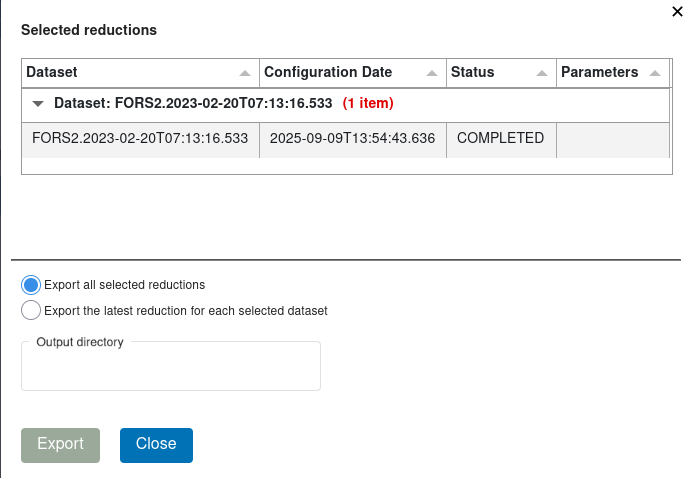
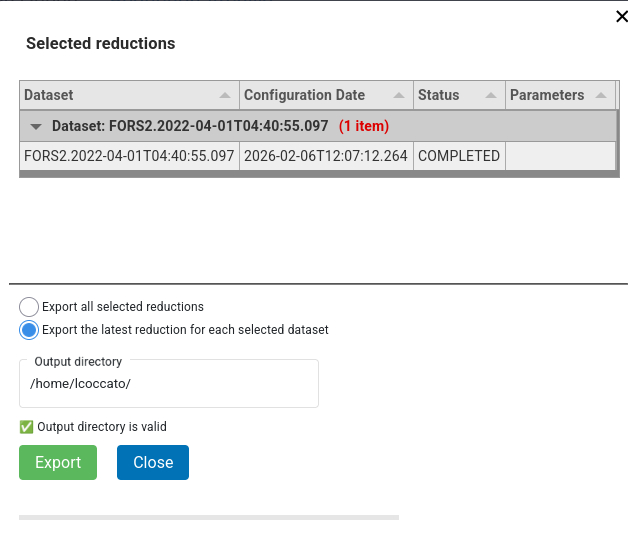
Export

diff --git a/source/quick/reduction.md b/source/quick/reduction.md
@@ -17,5 +17,39 @@ d. Choose a pipeline workflow that matches the data to be reduced. The workflows
 
 ```{include} ../common/reducing_demo_2.md
 ```
+
+## 3. Save the final data (Optional).
+All the products (final and intermediate) of all reduced configuration for all datasets are saved into
+the EDPS_data directory. In addition, EDPS offers the possibility to "archive" a desired reduction (e.g., the one
+that gives the best results) by "exporting" only the final reduction products into another location.
+
+Select the desired reduced configurations and press the "Archive button". This configuration disappears from the
+Reduction Queue and appear in the tab "Reduction Archive".
+
+The content of the "Reduction Archive", e.g. the list of archived reductions, can be inspected by pressing the
+**Reduction Archive" tab.
+
+   ````{figure} figures/archive-dataset.jpg
+   :alt: archive
+   :name: archive
+   ````  
+
+Each configuration and its jobs can be inspected, unarchived and eventually deleted.
+In order to copy the final products into a desired location, press the Export button. A window will appear
+allowing 
+ - to select all or just the last configuration for the selected datasets  
+ - to specify a directory where to save the files. A check is done 
+
+Press **Export** to save the files. 
+The types of files to copy depend on each workflow. Typically, only most important files of the 
+scientific tasks are saved. Other files can be found in the EDPS_data directory.
+The operation can take several minutes, depending on the sizes of the files.
+The default structure is `<dataset_name>/<reduction_time_stamp>/<category>.fits`.
+
+   ````{figure} figures/export2.jpg
+   :alt: archive2
+   :name: archive2
+   ````  
+
 ---
 Go to EDPS quick-start guide [index](../quick/index)

diff --git a/source/edpsgui/gui.md b/source/edpsgui/gui.md
@@ -132,6 +132,10 @@ scientific tasks are saved. Other files can be found in the EDPS_data directory.
 The operation can take several minutes, depending on the sizes of the files.
 The default structure is `<dataset_name>/<reduction_time_stamp>/<category>.fits`.
 
+   ````{figure} figures/archive-dataset_2.jpg
+   :alt: archive2
+   :name: archive2
+   ````  
 ---
 Go to [top](#top)
 
